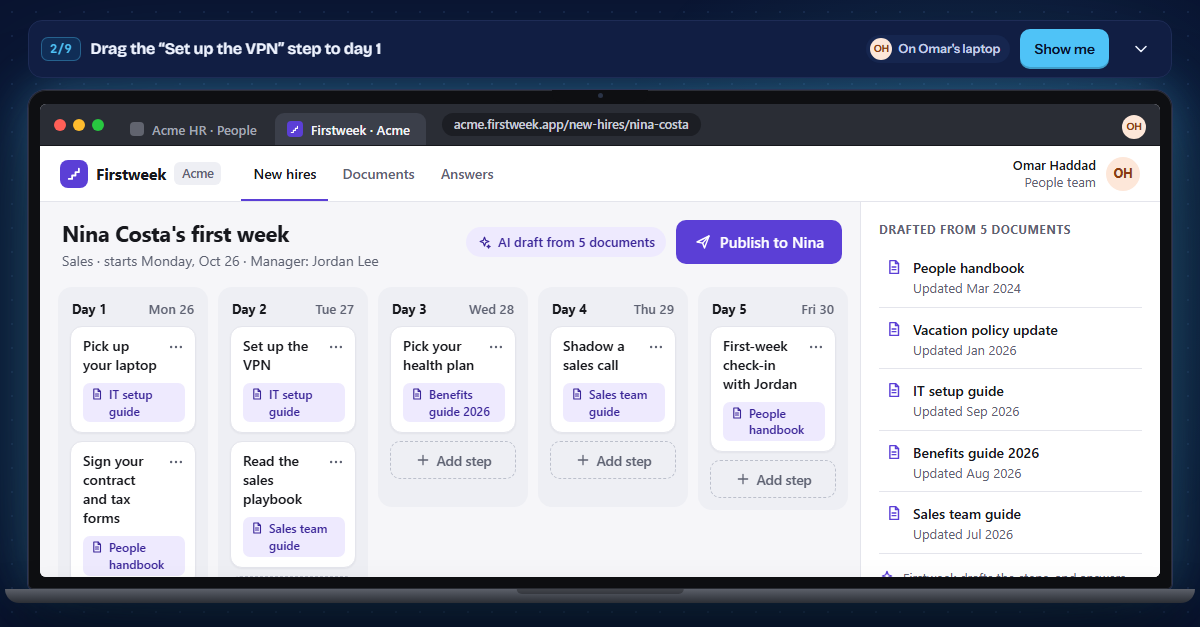
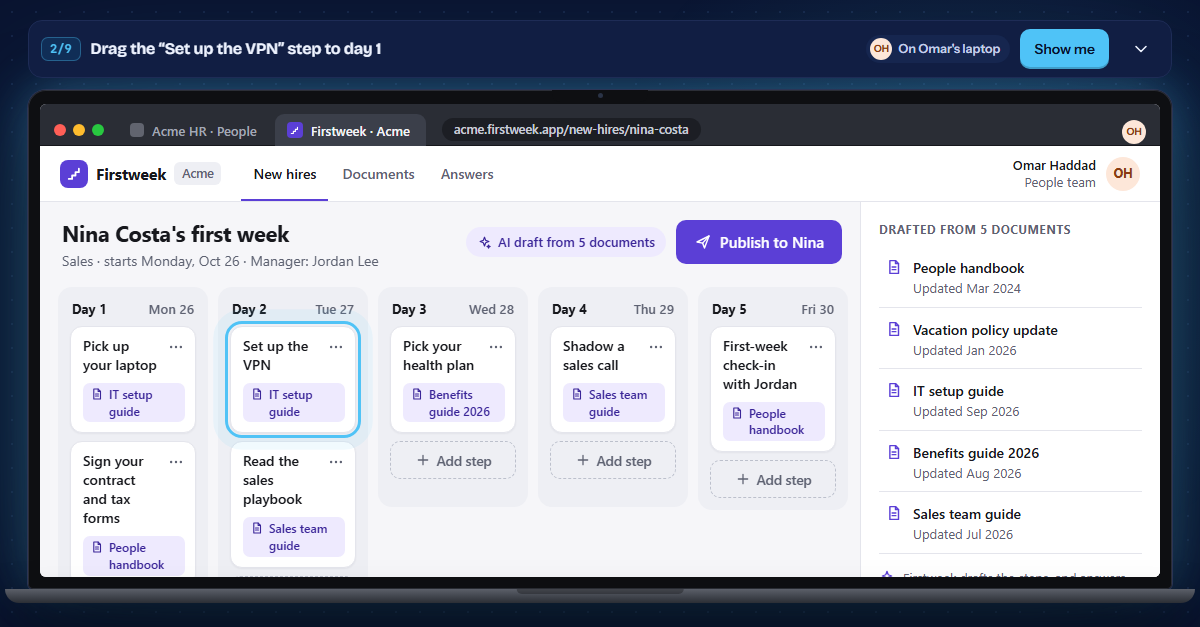
Send keeps you where you are, both laptops have the window dots, and the bar lines up
Sending a message no longer jumps to My first week: a "Sent" toast
confirms it, and the reply's notification opens the chat. Nina's laptop
has the three window dots again (her silver frame and blue browser
still tell the two apart), and on both bars the dots, the address pill
and the avatar sit on the tabs' middle line. The share image is
refreshed.

diff --git a/index.html b/index.html
@@ -139,28 +139,21 @@ body{overflow:auto;background:radial-gradient(var(--dot) 1px,transparent 1.3px) 
 .laptop{--chrome:#DADDE6;--chrome-line:#C9CDD8;--tab-bg:var(--bg);--tab-ink:#30343C;--tab-dim:#5A5F6B;--url-bg:#F2F3F7;--url-ink:#4B4F5C}
 .laptop.is-omar{--chrome:#2A2D35;--chrome-line:#16171C;--tab-bg:#3B3F4A;--tab-ink:#F2F3F7;--tab-dim:#A3A8B5;--url-bg:#1C1E24;--url-ink:#C9CDD8}
 .laptop.is-nina{--chrome:#DCE6F7;--chrome-line:#C3D1EC;--tab-bg:#FFFFFF;--tab-ink:#1D2A44;--tab-dim:#55627E;--url-bg:#FFFFFF;--url-ink:#3B4A66}
-.b-bar{flex:none;display:flex;align-items:flex-end;gap:10px;height:42px;padding:0 14px;background:var(--chrome);border-bottom:1px solid var(--chrome-line);transition:background-color .4s,border-color .4s}
-.b-dots{display:flex;gap:7px;align-self:center}
+.b-bar{flex:none;display:flex;align-items:center;gap:10px;height:42px;padding:10px 14px 0;background:var(--chrome);border-bottom:1px solid var(--chrome-line);transition:background-color .4s,border-color .4s}
+.b-dots{display:flex;gap:7px}
 .b-dots i{width:12px;height:12px;border-radius:50%;background:#FF5F57}
 .b-dots i:nth-child(2){background:#FEBC2E}
 .b-dots i:nth-child(3){background:#28C840}
-.b-tabs{display:flex;gap:2px;margin-left:4px;min-width:0}
+.b-tabs{display:flex;align-self:stretch;gap:2px;margin-left:4px;min-width:0}
 .b-tab{display:flex;align-items:center;gap:8px;height:32px;padding:0 16px 0 12px;border-radius:9px 9px 0 0;background:var(--tab-bg);font:600 13px/1 var(--font);color:var(--tab-ink);white-space:nowrap}
 .b-tab.dim{background:transparent;color:var(--tab-dim);font-weight:500}
 .b-tab .mini-logo{display:grid;place-items:center;width:16px;height:16px;border-radius:4px;background:var(--brand);color:#fff}
 .b-tab .mini-logo svg{width:11px;height:11px}
 .b-tab .tab-ic{width:14px;height:14px;border-radius:4px;background:currentColor;opacity:.45}
-.b-url{align-self:center;margin-left:6px;padding:5px 12px;border-radius:999px;background:var(--url-bg);font:500 12.5px/1 var(--font);color:var(--url-ink);white-space:nowrap;overflow:hidden;text-overflow:ellipsis;min-width:0}
-.b-who{align-self:center;margin-left:auto}
+.b-url{margin-left:6px;padding:5px 12px;border-radius:999px;background:var(--url-bg);font:500 12.5px/1 var(--font);color:var(--url-ink);white-space:nowrap;overflow:hidden;text-overflow:ellipsis;min-width:0}
+.b-who{margin-left:auto}
 .b-who .mini-av{width:24px;height:24px}
 /* Windows-style controls: minimize, maximize, close */
-.b-win{display:flex;align-self:stretch;margin:0 -14px 0 0}
-.b-win i{position:relative;width:42px;color:var(--tab-dim)}
-.b-win i::before,.b-win i::after{content:"";position:absolute;left:50%;top:50%;transform:translate(-50%,-50%)}
-.b-win .min::before{width:10px;height:1.5px;background:currentColor}
-.b-win .max::before{width:9px;height:9px;border:1.5px solid currentColor;border-radius:1px}
-.b-win .x::before,.b-win .x::after{width:12px;height:1.5px;background:currentColor;transform:translate(-50%,-50%) rotate(45deg)}
-.b-win .x::after{transform:translate(-50%,-50%) rotate(-45deg)}
 .screen{position:relative;flex:1;min-height:0;overflow:hidden;background:var(--bg);color:var(--ink);font:15px/1.5 var(--font);container:app/inline-size}
 
 /* ================= Context (left) ================= */
@@ -893,7 +886,7 @@ const STR = {
     goNinaD: "The next step, “{task}”, happens on Nina's laptop.", goOmarD: "The next step, “{task}”, happens on Omar's laptop.",
     mTitle: 'Message {name}', mTo: 'To {name} · {role}', mLabel: 'Message', mDraft: 'Hi {first}! ', mSend: 'Send',
     mNote: 'The answer shows up in Ask about Acme, marked as coming from a person, not a document.',
-    mSentTo: 'To {name}', mSent: 'Sent to {first}. The answer will show up here.', mFrom: '{name} · a person, not a document', mToast: '{name} answered.', notifNow: 'now', notifClose: 'Dismiss',
+    mSentTo: 'To {name}', mSent: 'Sent to {first}. The answer will show up here.', mFrom: '{name} · a person, not a document', mToast: '{name} answered.', mSentToast: 'Sent to {first}.', notifNow: 'now', notifClose: 'Dismiss',
     libTitle: "Acme's documents", libSub: 'Firstweek drafts each first week, and answers new hires, only from these. Keep them current, and the answers stay right.',
     libStep1: '1 step', libStepN: '{n} steps', libAns1: '1 answer', libAnsN: '{n} answers', libUsed: 'Used in {list}', libUnused: 'Not used yet',
     libReplaced: '1 section replaced by a newer document', libNew: 'New section today', libDocLabel: 'Document', libUsedFor: 'Used in',
@@ -993,7 +986,7 @@ const STR = {
     goNinaD: 'A próxima etapa, “{task}”, acontece no notebook da Nina.', goOmarD: 'A próxima etapa, “{task}”, acontece no notebook do Omar.',
     mTitle: 'Mensagem para {name}', mTo: 'Para {name} · {role}', mLabel: 'Mensagem', mDraft: 'Oi, {first}! ', mSend: 'Enviar',
     mNote: 'A resposta aparece em Pergunte sobre a Acme, marcada como vinda de uma pessoa, não de um documento.',
-    mSentTo: 'Para {name}', mSent: 'Enviada para {first}. A resposta vai aparecer aqui.', mFrom: '{name} · uma pessoa, não um documento', mToast: '{name} respondeu.', notifNow: 'agora', notifClose: 'Dispensar',
+    mSentTo: 'Para {name}', mSent: 'Enviada para {first}. A resposta vai aparecer aqui.', mFrom: '{name} · uma pessoa, não um documento', mToast: '{name} respondeu.', mSentToast: 'Enviada para {first}.', notifNow: 'agora', notifClose: 'Dispensar',
     libTitle: 'Documentos da Acme', libSub: 'O Firstweek monta cada primeira semana, e responde a quem chega, só com base nestes documentos. Mantenha-os em dia, e as respostas continuam certas.',
     libStep1: '1 etapa', libStepN: '{n} etapas', libAns1: '1 resposta', libAnsN: '{n} respostas', libUsed: 'Usado em {list}', libUnused: 'Ainda não usado',
     libReplaced: '1 seção substituída por um documento mais novo', libNew: 'Seção nova hoje', libDocLabel: 'Documento', libUsedFor: 'Usado em',
@@ -1606,11 +1599,10 @@ function renderChrome() {
   const lap = $('#laptop');
   lap.classList.toggle('is-omar', mac); lap.classList.toggle('is-nina', !mac);
   const other = t(mac ? 'tabHr' : 'tabWelcome');
-  $('#b-bar').innerHTML = `${mac ? '<span class="b-dots"><i></i><i></i><i></i></span>' : ''}
+  $('#b-bar').innerHTML = `<span class="b-dots"><i></i><i></i><i></i></span>
     <span class="b-tabs"><span class="b-tab dim"><span class="tab-ic"></span>${esc(other)}</span><span class="b-tab"><span class="mini-logo">${LOGO}</span>Firstweek · Acme</span></span>
     <span class="b-url">${mac ? 'acme.firstweek.app/new-hires/nina-costa' : 'acme.firstweek.app/my-first-week'}</span>
-    <span class="b-who"><span class="mini-av${mac ? '' : ' nina'}">${PEOPLE[role].ini}</span></span>
-    ${mac ? '' : '<span class="b-win"><i class="min"></i><i class="max"></i><i class="x"></i></span>'}`;
+    <span class="b-who"><span class="mini-av${mac ? '' : ' nina'}">${PEOPLE[role].ini}</span></span>`;
 }
 function headHTML(role) {
   const p = PEOPLE[role];
@@ -1957,6 +1949,7 @@ function showNotif(m) {
   announce(t('mToast', { name: p.name }));
   el.innerHTML = `<p class="nt-top"><span class="mini-logo">${LOGO}</span><span>Firstweek</span><span class="nt-when">${t('notifNow')}</span><button class="nt-x" type="button" data-action="notif-close" aria-label="${t('notifClose')}">${icon('close')}</button></p>
     <button class="nt-body" type="button" data-action="notif-open">${avatarHTML(from)}<span class="nt-msg"><b>${esc(p.name)}</b><span class="nt-text">${replyText(m)}</span></span></button>`;
+  $('#toast').classList.remove('show');
   el.removeAttribute('aria-hidden'); el.classList.add('show');
   clearTimeout(notifTimer);
   notifTimer = setTimeout(hideNotif, 6000);
@@ -2072,13 +2065,10 @@ function sendMessage() {
   if (dog) state.sentJordan = true; else if (m) m.sent = true;
   // an untouched draft is rebuilt on render, so it follows a language switch
   state.chat.push({ id: ++msgN, kind: 'sent', to, msgId, text: state.mEdited ? state.mDraft.trim() : null });
-  // sent from People: My first week's chat is where the message and the answer show up
-  const fromPeople = state.ninaTab === 'people';
-  state.ninaTab = 'week'; state.focus = '#ask-input';
+  // you stay where you are: the answer arrives as a notification, which opens the chat
+  state.focus = state.ninaTab === 'people' ? `[data-action="message"][data-to="${to}"]` : '#ask-input';
   renderApp(); renderGuide();
-  // a narrow window stacks day 1 above the chat, so the chat comes up
-  const body = $('.nina-body'), askEl = $('.ask');
-  if (fromPeople && body && askEl) body.scrollTop = askEl.offsetTop;
+  showToast(t('mSentToast', { first: person(to).first }));
   setTimeout(() => {
     if (state !== run) return;
     const reply = { id: ++msgN, kind: 'human', from: to, generic: !dog };
